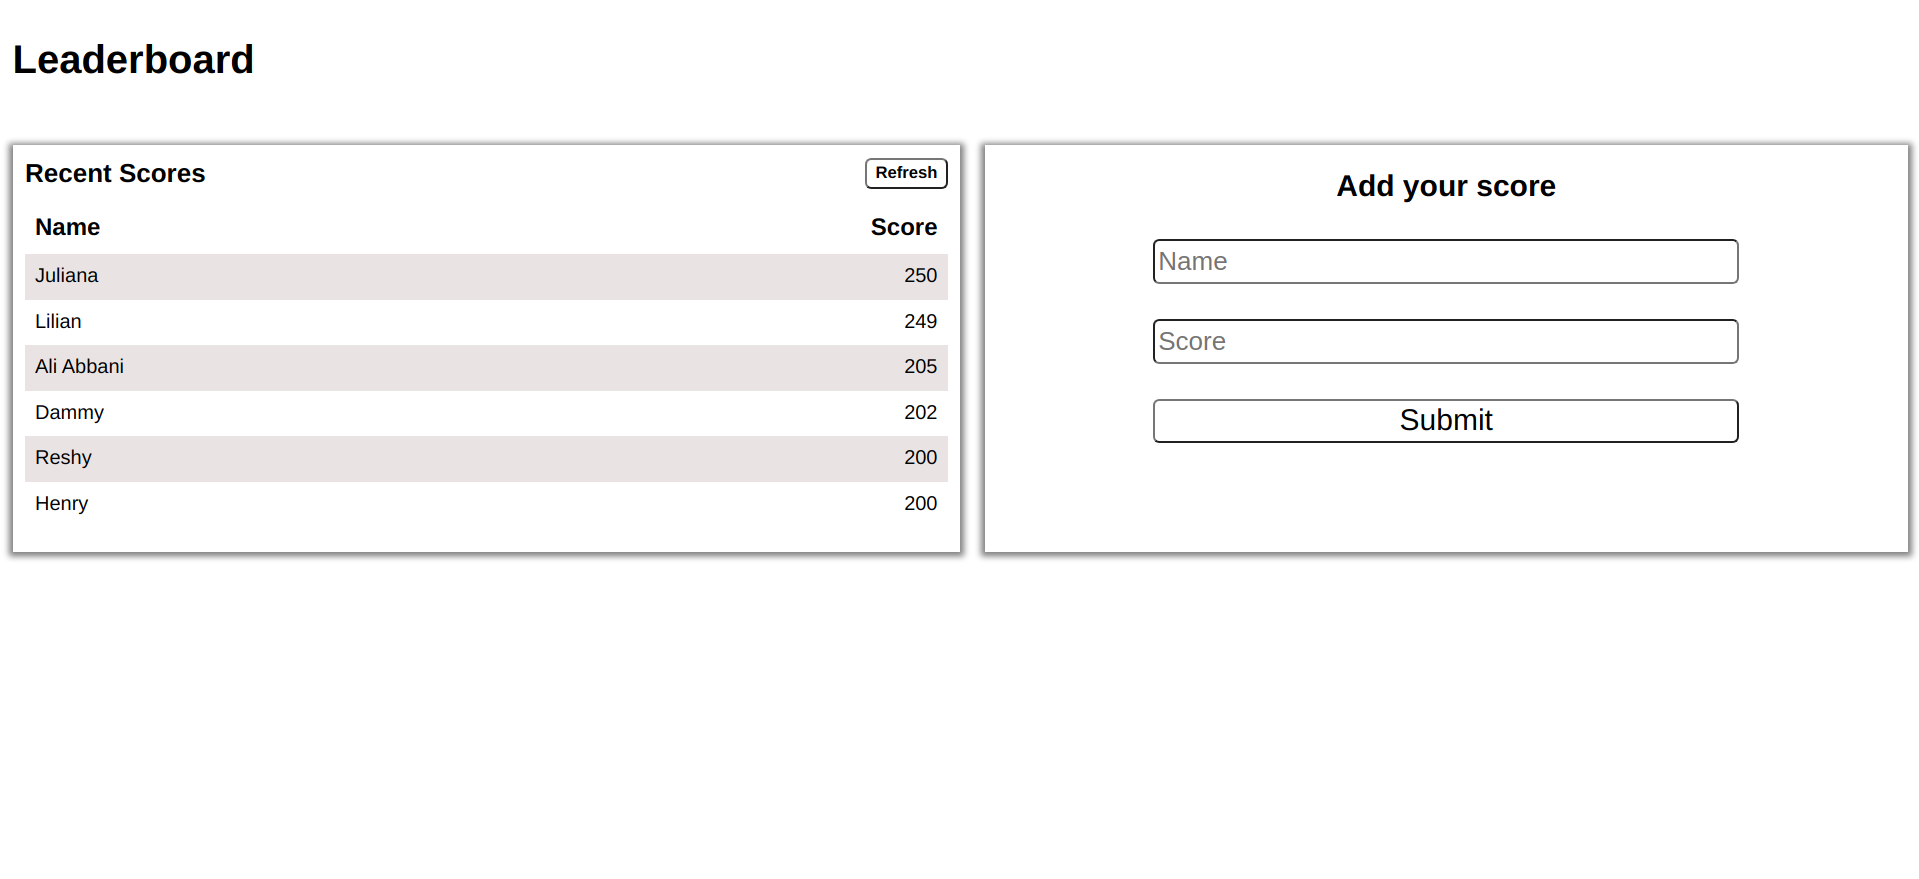
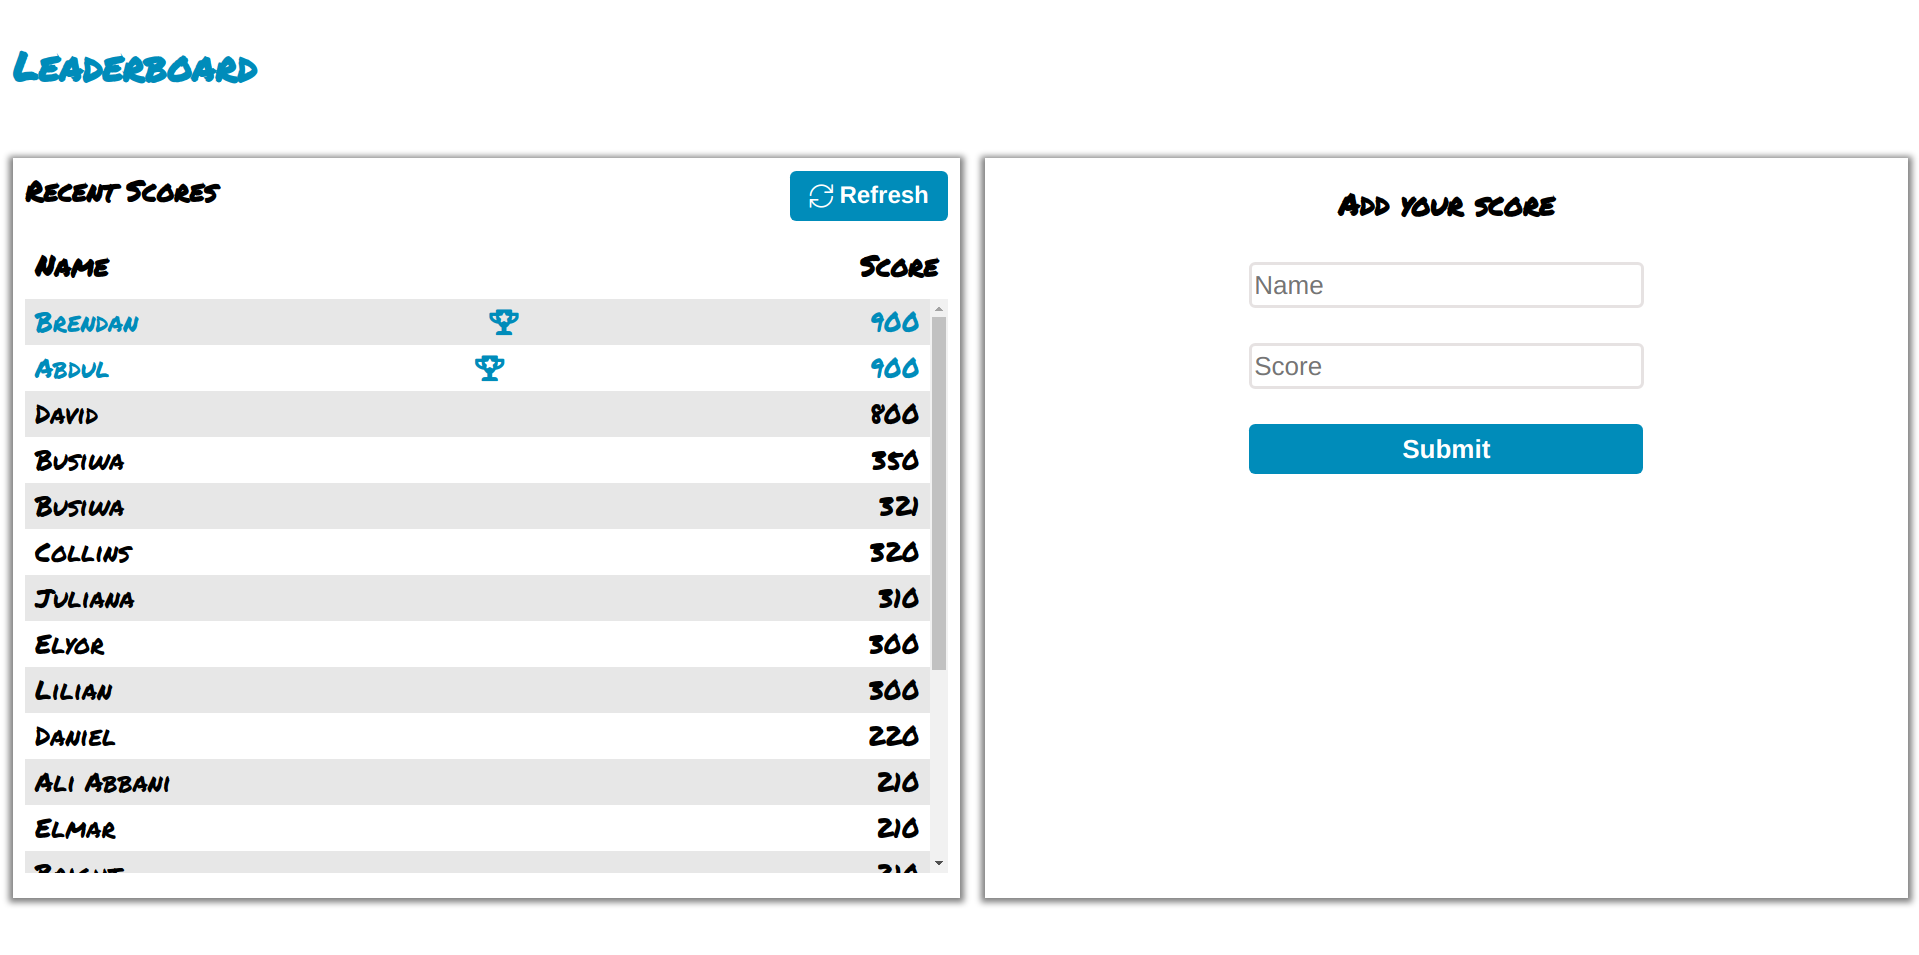
Update app screenshots

diff --git a/src/index.js b/src/index.js
@@ -54,9 +54,9 @@ const getScores = async (msg) => {
   try {
     const data = await getData();
     scores = data.result;
-    showMessage(msg);
     scores.sort((a, b) => a.score - b.score).reverse();
     showScores();
+    showMessage(msg, '#228b22');
   } catch (e) {
     showMessage(e.message);
   }

diff --git a/src/style.css b/src/style.css
@@ -29,6 +29,7 @@ body {
   text-align: center;
   align-self: center;
   top: 0;
+  font-family: Verdana, Geneva, Tahoma, sans-serif;
   color: transparent;
   left: 0;
   height: 50px;
